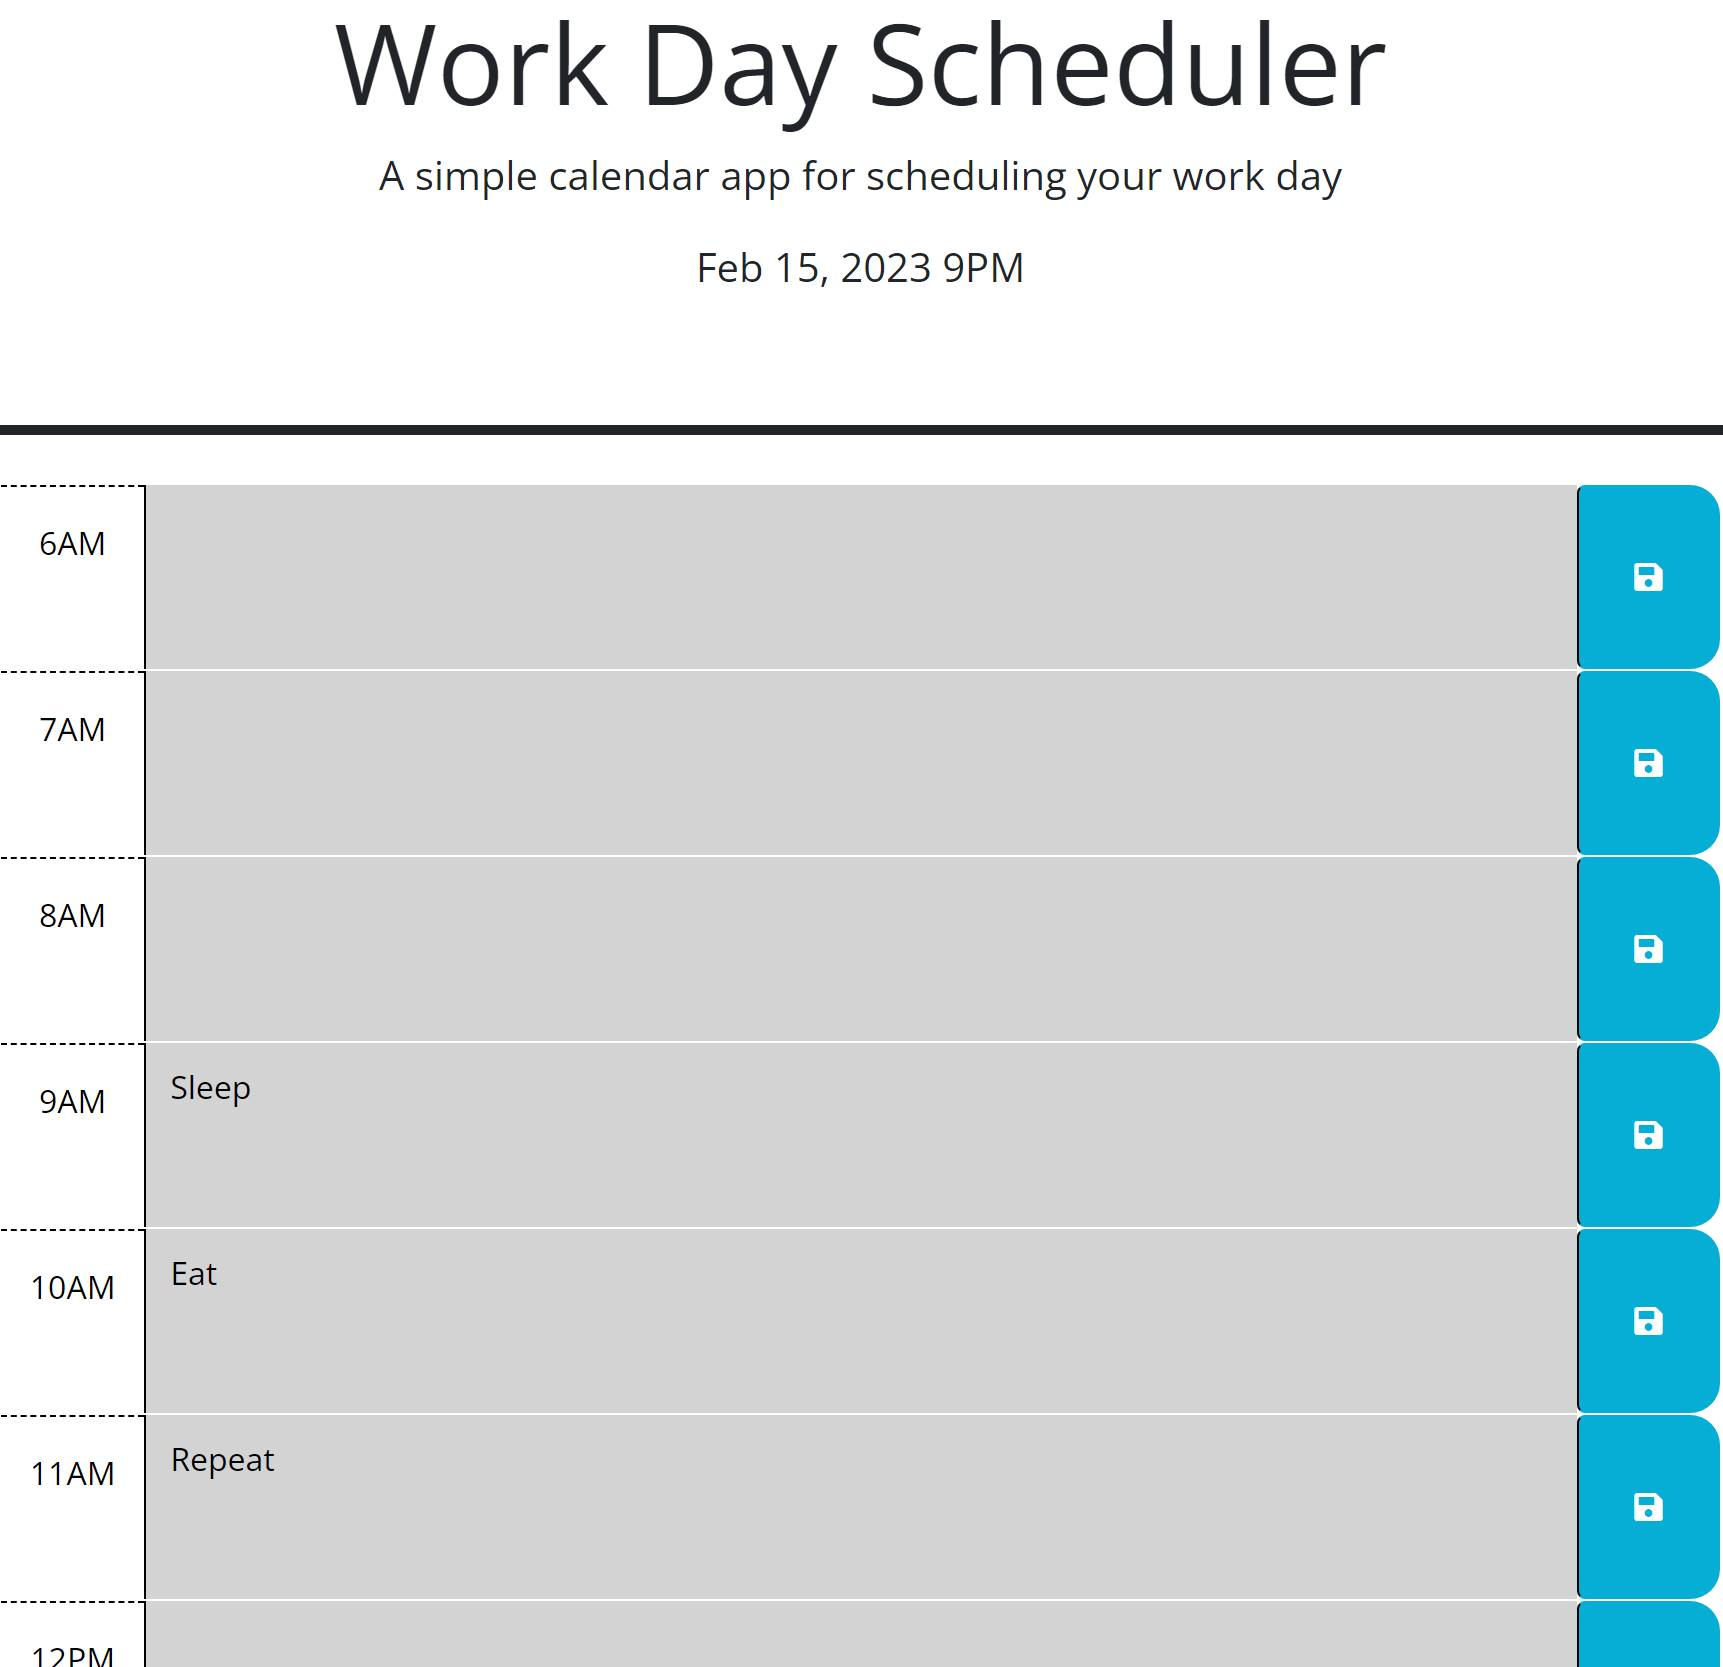
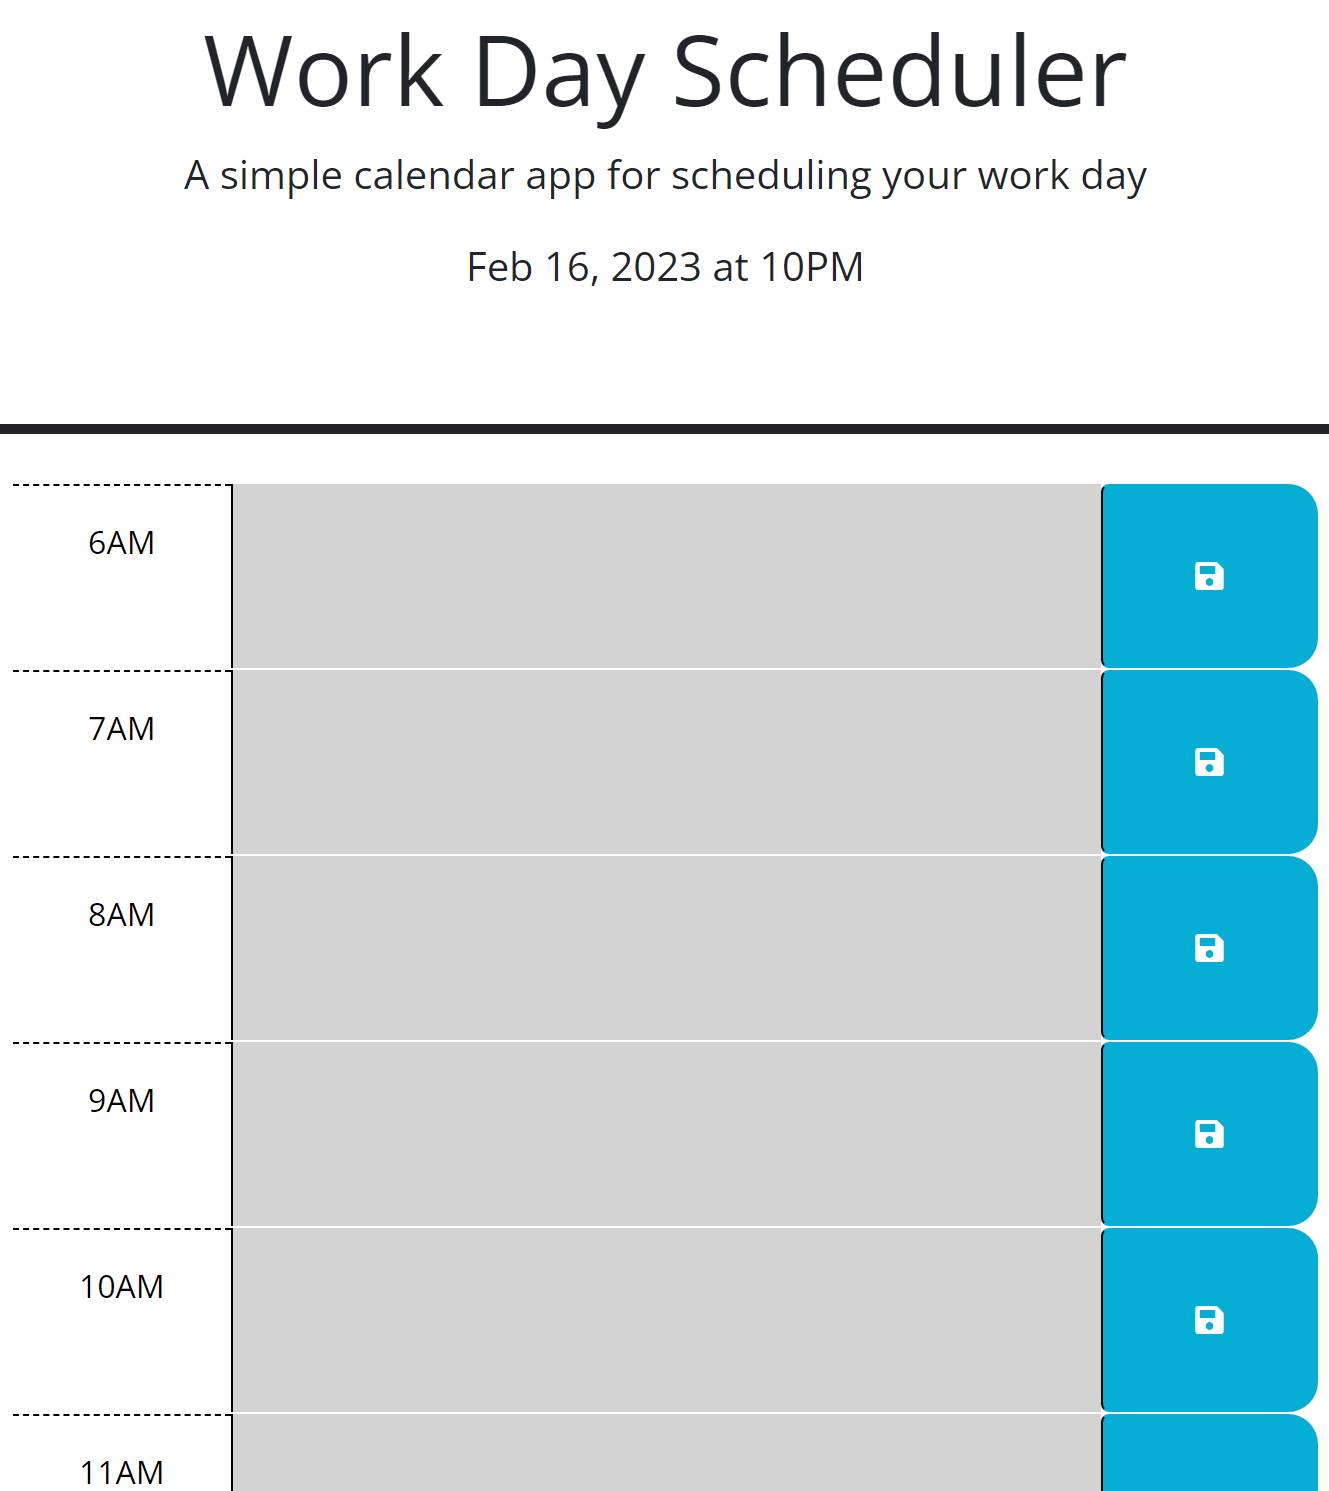
Sixth commit - added descriptive readme

Changed region(s): [[0.0, 0.2468, 1.0, 1.0], [0.1234, 0.0, 0.8638, 0.1851]]

diff --git a/assets/script.js b/assets/script.js
@@ -5,13 +5,6 @@ $(document).ready(function() {
   var today = dayjs();
   $('#today').text(today.format('MMM D, YYYY [at] hA'));
 
-
-  // TODO: Add a listener for click events on the save button. This code should
-  // use the id in the containing time-block as a key to save the user input in
-  // local storage. HINT: What does `this` reference in the click listener
-  // function? How can DOM traversal be used to get the "hour-x" id of the
-  // time-block containing the button that was clicked? How might the id be
-  // useful when saving the description in local storage?
   
   // saving
   var saveButtons = $(".saveBtn");

diff --git a/README.md b/README.md
@@ -1,16 +1,33 @@
-# <Project Richard Saplaco - Work Day Scheduler>
+# <Work Day Scheduler>
+Don't forget to plan ahead, this handy dandy will get you there!
+
+## Table of contents
+* [Description](#description)
+* [Screenshots](#screenshots)
+* [Features](#features)
+
 
 ## Description
 
-A work in progress Work Day Scheduler...
+A simple Work Day Scheduler that you can take a note on each hour of the day starting at
+6am which you can save your notes and also automatically color codes if the current time
+is past(gray), present(red) or future(green) time.
 
 
 ## Screenshots
 
-![Work Day Scheduler Screenshot](https://apolakl.github.io/CHAD_WorkDayScheduler/assets/WorkDaySchedulerSS.jpg)
+![Work Day Scheduler Screenshot](https://raw.githubusercontent.com/APOLAKl/CHAD_WorkDayScheduler/main/assets/WorkDaySchedulerSS.jpg)
 
 
-## 🔗 Link to Deployed Page
+## Features
+* HTML
+* CSS
+* Javascript
+* DayJS
+* Jquery
+
+
+## 🔗Link to Deployed Page URL
 https://apolakl.github.io/CHAD_WorkDayScheduler/
 
 ## 🔗 Link to GitHub Repo Page
